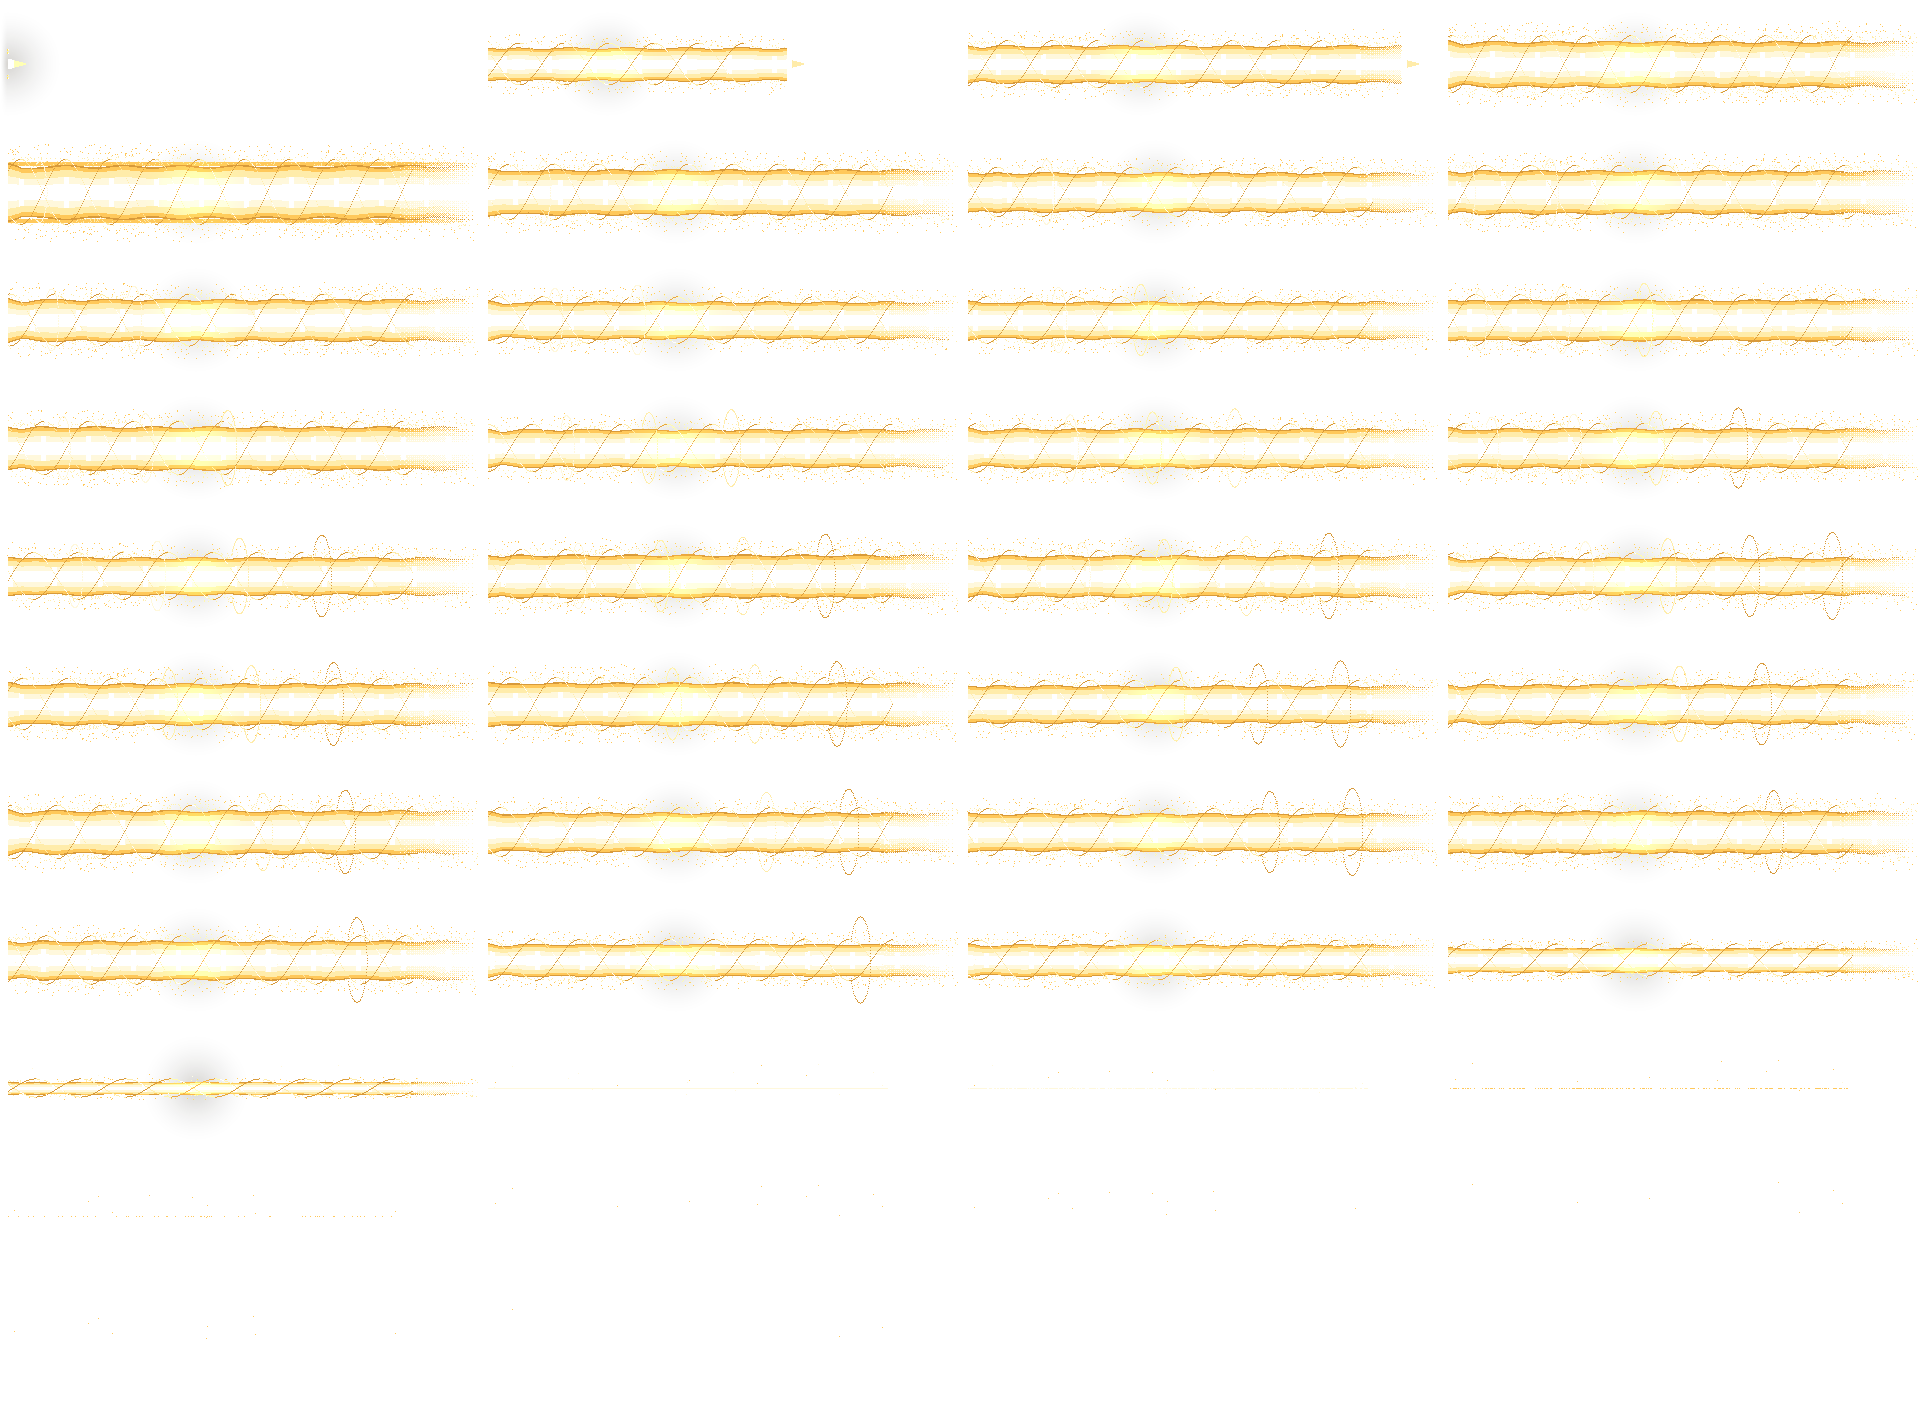
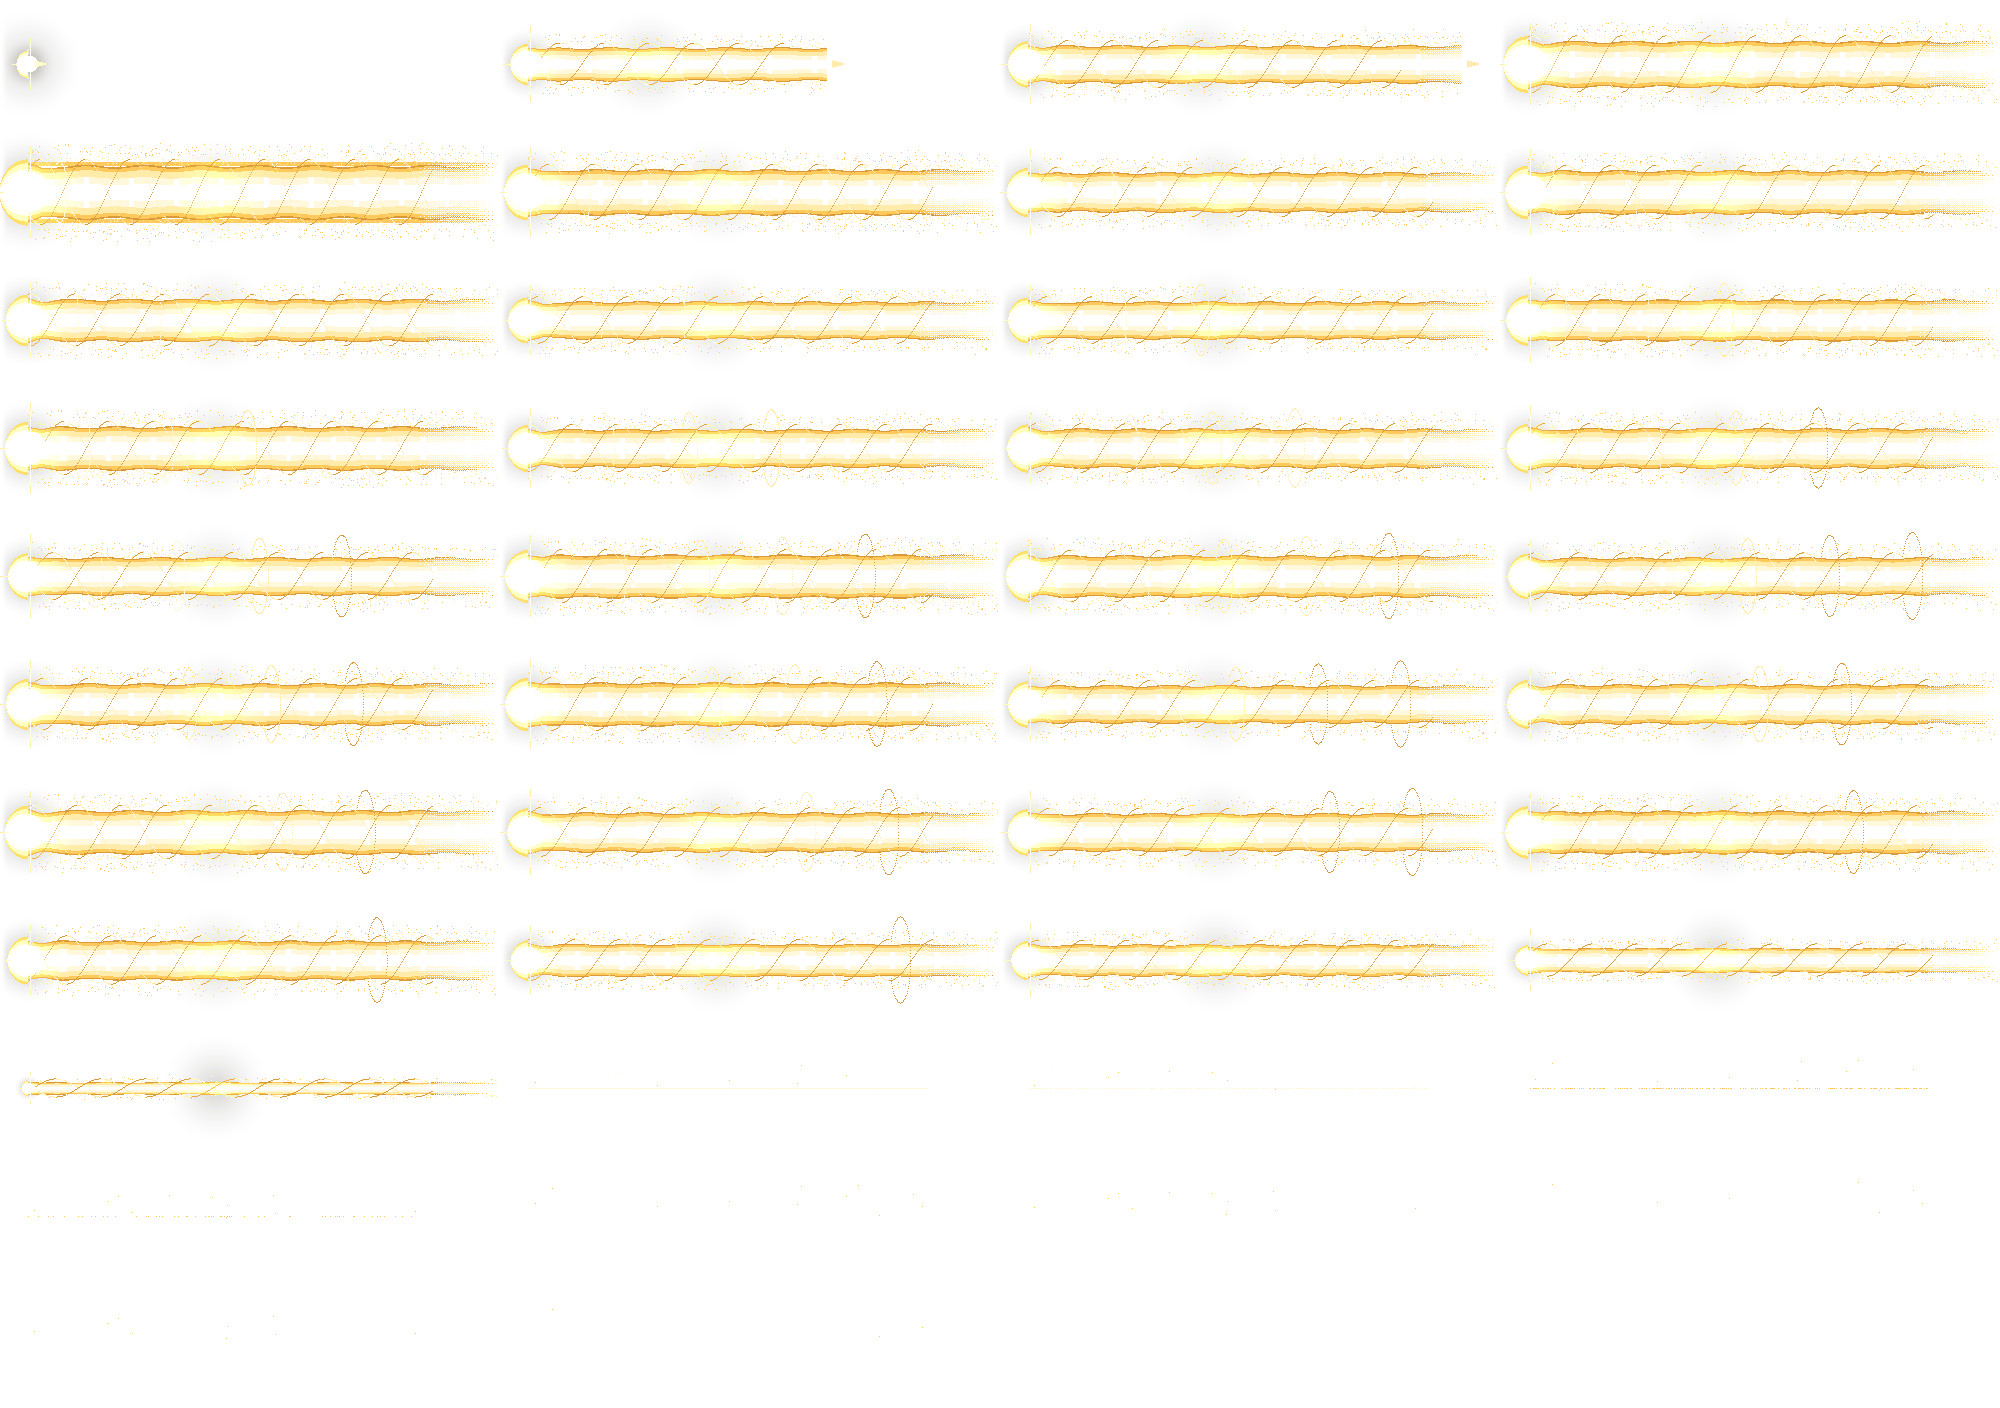
Luce ult beam: rounded root with a flare at the fist instead of a flat cut
Claude-Session: https://claude.ai/code/session_01FzDataYedfiK9tzFLcKdoU

diff --git a/tools/pixelfx_fx/luce-ult-beam.js b/tools/pixelfx_fx/luce-ult-beam.js
@@ -8,8 +8,8 @@ export const meta = {
   name: "Luce ult beam",
   desc: "A spearhead races out, the beam stands full (white core, gold edges, aura dither), pulses and upright halo rings roll along it, then it draws to a hairline and breaks into motes.",
   tags: ["holy", "beam", "ultimate", "one-shot"],
-  size: [480, 128],
-  origin: [8, 64],
+  size: [500, 128],
+  origin: [28, 64],
   duration: 0.86,
   loop: false,
   fps: 50,
@@ -56,6 +56,21 @@ export function draw(p, t, o) {
       const a = x * 0.07 - t * 30 + s0, y = Math.sin(a) * (W * 1.15 + 2);
       p.px(x, y, Math.cos(a) > 0 ? (((x >> 2) + F) % 5 === 0 ? WHITE : G0) : G2);
     }
+    // the root: a rounded cap swelling out of the fist (no flat cut), a hot bulb of light and a flare on it
+    const R = W * 1.1;
+    for (let x = -Math.ceil(R); x < 0; x++) {
+      const w = W * 1.25 * Math.sqrt(Math.max(0, 1 - (x / R) * (x / R)));
+      for (let y = -Math.ceil(w); y <= Math.ceil(w); y++) {
+        const q = Math.abs(y) / Math.max(0.5, w);
+        if (q > 1) continue;
+        p.px(x, y, q < 0.45 ? WHITE : q < 0.7 ? W1 : q < 0.88 ? G0 : G1);
+      }
+    }
+    p.disc(2, 0, W * 0.75, WHITE, 1);
+    const fl = 10 + W * 0.9 + 4 * Math.sin(F * 1.3);
+    for (let i = 0; i <= fl; i++) { const c = i < fl * 0.4 ? WHITE : i < fl * 0.75 ? W1 : G0; p.px(2, -W * 0.6 - i, c); p.px(2, W * 0.6 + i, c); }
+    for (let i = 0; i <= fl * 0.6; i++) { const c = i < fl * 0.3 ? WHITE : G0; p.px(2 - W * 0.6 - i, 0, c); }
+    p.glow(0, 0, W * 2.4, G0, 0.4);
     // the spearhead while it races out
     if (t < T0 + 0.03) for (let i = 0; i < 18; i++) { const hw = (18 - i) * 0.9; p.line(front + i, -hw * 0.3, front + i, hw * 0.3, i < 6 ? WHITE : G0); }
     // edge sparks running out along it
